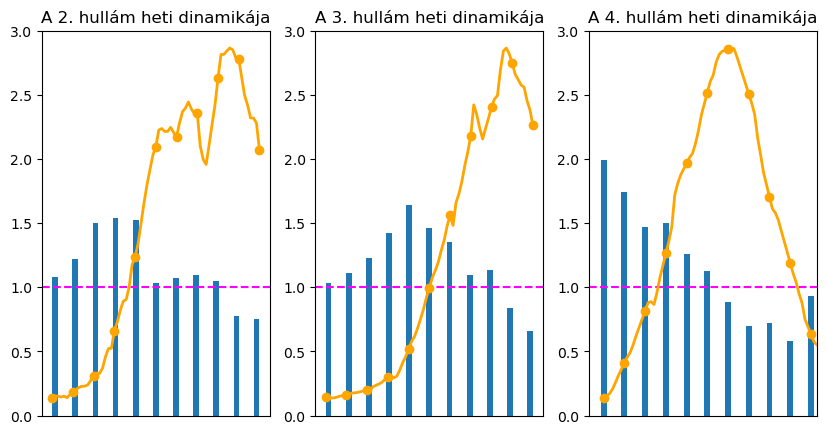
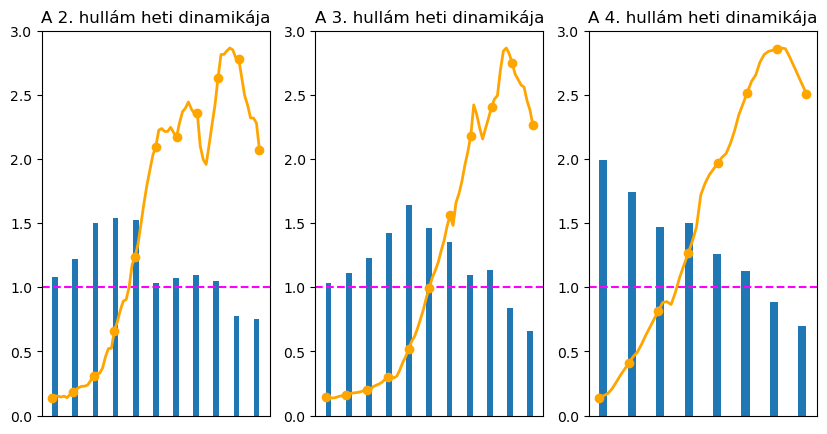
Frissítés

diff --git a/kép_covid_terjedése_csúcsok.py b/kép_covid_terjedése_csúcsok.py
@@ -51,9 +51,9 @@ df3hd = dfhd[dfhd['Dátum'] >= "2021-01-25"]
 df3hd = df3hd[df3hd['Dátum'] < "2021-04-06"]
 
 df4 = dfheti[dfheti['Dátum'] >= "2021-10-18"]
-df4 = df4[df4['Dátum'] < "2021-12-31"]
+df4 = df4[df4['Dátum'] < "2021-12-07"]
 df4hd = dfhd[dfhd['Dátum'] >= "2021-10-18"]
-df4hd = df4hd[df4hd['Dátum'] < "2021-12-31"]
+df4hd = df4hd[df4hd['Dátum'] < "2021-12-07"]
 
 pd.plotting.register_matplotlib_converters()
 
@@ -99,12 +99,12 @@ ax4.set_ylim([0,3.0])
 ax4.xaxis.set_visible(False)
 ax4.set_title("A 4. hullám heti dinamikája")
 ax4.axhline(1.0,color='magenta',ls='--')
-ax4.set_xlim([df4hd['Dátum'].min() + pd.Timedelta("-5 days"), df4hd['Dátum'].min() + pd.Timedelta("72 days")])
+#ax4.set_xlim([df4hd['Dátum'].min() + pd.Timedelta("-5 days"), df4hd['Dátum'].min() + pd.Timedelta("58 days")])
 
 ax5=fig.add_subplot(133, label="5", frame_on=False)
 ax5.plot(df4hd['Dátum'], df4hd['Előző fertőzött átlag'], color="orange", linewidth=2.0, marker='o', markevery=(0,7))
 ax5.xaxis.set_visible(False)
 ax5.yaxis.set_visible(False)
-ax5.set_xlim([df4hd['Dátum'].min() + pd.Timedelta("-5 days"), df4hd['Dátum'].min() + pd.Timedelta("72 days")])
+#ax5.set_xlim([df4hd['Dátum'].min() + pd.Timedelta("-5 days"), df4hd['Dátum'].min() + pd.Timedelta("58 days")])
 
 fig.savefig(BASEDIR + "/képek/VírusTerjedésCsúcsok.png", bbox_inches = "tight")
